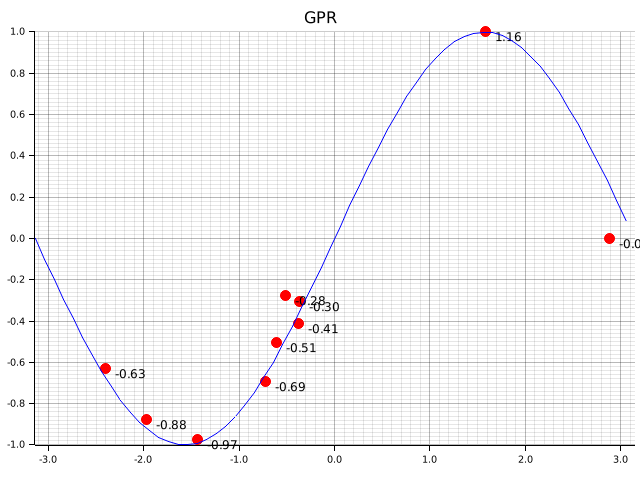
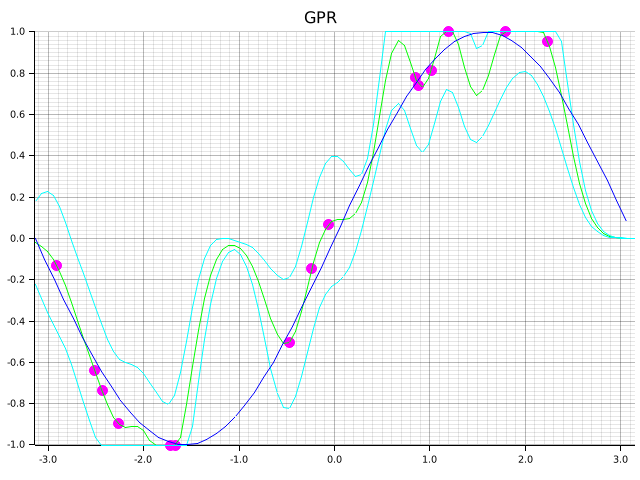
estimate mean and variance

diff --git a/src/main.rs b/src/main.rs
@@ -1,8 +1,7 @@
 use rand::Rng;
 use rand_distr::{Normal, Distribution};
-use ndarray;
 use ndarray::{Array1, Array2, ArrayView1};
-use ndarray_linalg::solve::Inverse;
+use ndarray_linalg::Solve;
 use std::f64::consts::PI;
 use plotters::{prelude::*, coord::types::RangedCoordf64};
 
@@ -13,9 +12,9 @@ fn sin_func(x: f64) -> f64 {
     return amp * f64::sin(omega * x + phase);
 }
 
-fn draw_latent_func(
+fn draw_func(
     chart: &mut ChartContext<BitMapBackend, Cartesian2d<RangedCoordf64, RangedCoordf64>>,
-    latent_f: fn(f64) -> f64,
+    func: fn(f64) -> f64,
     bounds: (f64, f64)) -> Result<(), Box<dyn std::error::Error>> {
 
     let step = 0.1;
@@ -23,17 +22,59 @@ fn draw_latent_func(
         .map(|i| bounds.0 + i as f64 * step)
         .filter(|&x| x <= bounds.1);
     chart.draw_series(LineSeries::new(
-        range.map(|x| (x, latent_f(x))),
+        range.map(|x| (x, func(x))),
         &BLUE
     ))?;
 
     return Ok(());
 }
 
+fn draw_points(
+    chart: &mut ChartContext<BitMapBackend, Cartesian2d<RangedCoordf64, RangedCoordf64>>,
+    x_array: ArrayView1<f64>,
+    y_array: ArrayView1<f64>,
+    color: RGBColor,
+    point_size: i32,
+    enable_line: bool) -> Result<(), Box<dyn std::error::Error>> {
+
+    for (x, y) in x_array.iter().zip(y_array.iter()) {
+        chart.draw_series(PointSeries::of_element(
+            vec![(*x, *y)], // ベクトル (x, y) を作成
+            point_size, // 点のサイズ
+            ShapeStyle::from(&color).filled(), // 点のスタイル
+            &|coord, size, style| { // 無名関数（クロージャ）を作成。&で参照キャプチャを指定。
+                EmptyElement::at(coord) // 点の座標を指定（空の要素を配置）
+                    + Circle::new((0, 0), size, style) // 円を描画
+            },
+        ))?;
+    }
+
+    if enable_line {
+        chart.draw_series(LineSeries::new(
+            x_array.iter().zip(y_array.iter()).map(|(&x, &y)| (x, y)),
+            &color,
+        ))?;
+    }
+    return Ok(());
+}
+
+fn draw_line(
+    chart: &mut ChartContext<BitMapBackend, Cartesian2d<RangedCoordf64, RangedCoordf64>>,
+    x_array: ArrayView1<f64>,
+    y_array: ArrayView1<f64>,
+    color: RGBColor) -> Result<(), Box<dyn std::error::Error>> {
+
+    chart.draw_series(LineSeries::new(
+        x_array.iter().zip(y_array.iter()).map(|(&x, &y)| (x, y)),
+        &color
+    ))?;
+    return Ok(());
+}
+
 // Radial Basis Function
 fn rbf_kernel(x1: f64, x2: f64) -> f64 {
-    let theta1 = 1.0;
-    let theta2 = 1.0;
+    let theta1 = 0.1;
+    let theta2 = 0.1;
     return theta1 * f64::exp(-(x1 - x2).powi(2) / theta2);
 }
 
@@ -68,22 +109,39 @@ fn compute_k_star(
 fn main() -> Result<(), Box<dyn std::error::Error>> {
     let mut rng = rand::thread_rng(); // 乱数ジェネレータを初期化
 
-    let num_train = 10;
+    const NUM_TRAIN: i32 = 15;
     let normal_dist = Normal::new(0.0, 0.1).unwrap();
-    let x_train: Array1::<f64> = (0..num_train)
+    let x_train: Array1::<f64> = (0..NUM_TRAIN)
         .map(|_| {
             return rng.gen_range(-PI..PI);
         }).collect();
     let y_train = x_train.map(|&x| sin_func(x) + normal_dist.sample(&mut rng));
 
-    let x_star = ndarray::array![-1.0, 0.0, 1.5, 2.1];
+    let x_star = ndarray::Array::linspace(-PI, PI, 100);
     let gram = compute_gram_matrix(&x_train, rbf_kernel);
     let k_star = compute_k_star(x_train.view(), x_star.view(), rbf_kernel);
 
-    // --- compute transpose(k_star) * inv(gram) * y_train ---
-    let gram_inv = Inverse::inv(&gram);
+    // --- compute mean: transpose(k_star) * inv(gram) * y_train ---
+    let gram_inv_y = gram.solve(&y_train).unwrap();
     let k_star_t = k_star.t();
-    let result = k_star_t.dot(&gram_inv).dot(&y_train);
+    let y_star = k_star_t.dot(&gram_inv_y);
+
+    // --- compute variance: diag(k_star_t * inv(gram) * k_star) ---
+    let mut gram_inv = Array2::<f64>::zeros((x_train.len(), x_train.len()));
+    for i in 0..x_train.len() {
+        let mut unit_vector = Array1::<f64>::zeros(x_train.len());
+        unit_vector[i] = 1.0;
+        let col = gram.solve(&unit_vector).unwrap();
+        gram_inv.column_mut(i).assign(&col);
+    }
+
+    let variance_matrix = k_star_t.dot(&gram_inv).dot(&k_star);
+    let y_star_variance = variance_matrix.diag().to_owned();
+    let upper = &y_star + &y_star_variance.mapv(f64::sqrt);
+    let lower = &y_star - &y_star_variance.mapv(f64::sqrt);
+
+
+
 
     // グラフを描画する画像ファイルを作成
     let root = BitMapBackend::new("images/plot.png", (640, 480)).into_drawing_area();
@@ -102,21 +160,13 @@ fn main() -> Result<(), Box<dyn std::error::Error>> {
     // XY軸、グリッド線を描画
     chart.configure_mesh().draw()?;
 
-    for (x, y) in x_train.iter().zip(y_train.iter()) {
-        chart.draw_series(PointSeries::of_element(
-            vec![(*x, *y)], // ベクトル (x, y) を作成
-            5, // 点のサイズ
-            ShapeStyle::from(&RED).filled(), // 点のスタイル
-            &|coord, size, style| { // 無名関数（クロージャ）を作成。&で参照キャプチャを指定。
-                EmptyElement::at(coord) // 点の座標を指定（空の要素を配置）
-                    + Circle::new((0, 0), size, style) // 円を描画
-                    + Text::new(format!("{:.2}", coord.1), (10, 0), ("sans-serif", 15).into_font()) // y の値を表示
-            },
-        ))?;
-    }
+    draw_points(&mut chart, x_train.view(), y_train.view(), MAGENTA, 5, false)?;
+    draw_line(&mut chart, x_star.view(), y_star.view(), GREEN)?;
+    draw_line(&mut chart, x_star.view(), upper.view(), CYAN)?;
+    draw_line(&mut chart, x_star.view(), lower.view(), CYAN)?;
 
     // sin関数を描画
-    draw_latent_func(&mut chart, sin_func, (-PI, PI))?;
+    draw_func(&mut chart, sin_func, (-PI, PI))?;
 
     // 描画が終わったら、画像ファイルを保存
     root.present()?;
